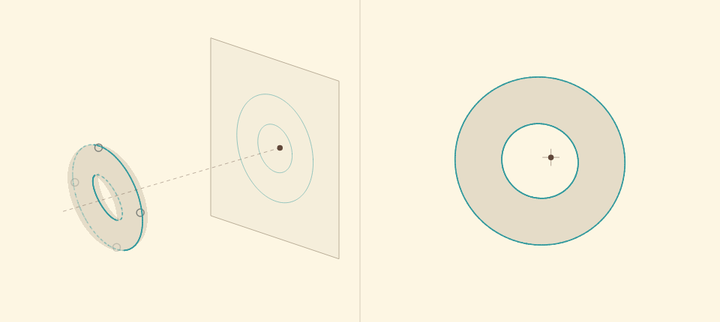
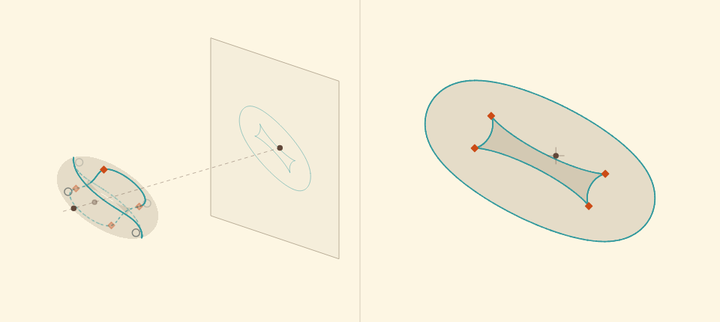
Load GIF previews directly and show oblique tori with verified contour cusps

diff --git a/math.html b/math.html
@@ -7,7 +7,6 @@
   <meta name="theme-color" content="#fdf6e3">
   <title>さわってあそべる数学ページ — 田邊真郷</title>
   <link rel="stylesheet" href="homepage.css?v=20261116-quiet-headings">
-  <script src="homepage-media.js?v=20261116-home-refine" defer></script>
 </head>
 <body class="site-page">
   <a class="skip-link" href="#main">本文へ</a>
@@ -28,14 +27,14 @@
       <section class="featured-content" id="morse" aria-labelledby="morse-heading">
         <h2 id="morse-heading"><a href="play-with-morse-singularities.html">モース特異点とあそぼう</a></h2>
         <figure>
-          <a href="play-with-morse-singularities.html" tabindex="-1" aria-hidden="true"><img class="gui-preview" id="morse-preview" src="assets/homepage/morse-gui.png?v=20261116-home-refine" data-animation-src="assets/homepage/morse-gui.gif?v=20261116-home-refine" width="720" height="322" alt="トーラスの上側を引っ張ったり押し込んだりすると、臨界点とその高さが変化する様子。" decoding="async"></a>
+          <a href="play-with-morse-singularities.html" tabindex="-1" aria-hidden="true"><img class="gui-preview" id="morse-preview" src="assets/homepage/morse-gui.gif?v=20261116-oblique-cusps" width="720" height="322" alt="斜めに見たトーラスの上側を引っ張ったり押し込んだりすると、臨界点とその高さが変化する様子。" decoding="async"></a>
         </figure>
         <p class="description">曲面を回転・変形して、山・谷・峠の個数とオイラー数の関係を調べます。</p>
       </section>
       <section class="featured-content" id="contours" aria-labelledby="contours-heading">
         <h2 id="contours-heading"><a href="play-with-apparent-contours.html">輪郭線とあそぼう</a></h2>
         <figure>
-          <a href="play-with-apparent-contours.html" tabindex="-1" aria-hidden="true"><img class="gui-preview" id="contours-preview" src="assets/homepage/contours-gui.png?v=20261116-home-refine" data-animation-src="assets/homepage/contours-gui.gif?v=20261116-home-refine" width="720" height="322" alt="トーラスの上側を引っ張ったり押し込んだりすると、スクリーン上の輪郭線が変化する様子。" decoding="async"></a>
+          <a href="play-with-apparent-contours.html" tabindex="-1" aria-hidden="true"><img class="gui-preview" id="contours-preview" src="assets/homepage/contours-gui.gif?v=20261116-oblique-cusps" width="720" height="322" alt="斜めに向けたトーラスの上側を変形させる様子。射影先のスクリーンにはカスプのある輪郭線が映ります。" decoding="async"></a>
         </figure>
         <p class="description">曲面を回転・変形して、スクリーンに映る輪郭線やカスプの変化を調べます。</p>
       </section>

diff --git a/index.html b/index.html
@@ -7,7 +7,6 @@
   <meta name="theme-color" content="#fdf6e3">
   <title>田邊真郷</title>
   <link rel="stylesheet" href="homepage.css?v=20261116-quiet-headings">
-  <script src="homepage-media.js?v=20261116-home-refine" defer></script>
 </head>
 <body class="site-page">
   <a class="skip-link" href="#main">本文へ</a>
@@ -39,13 +38,13 @@
       <div class="math-previews">
         <a href="math.html#morse">
           <figure>
-            <img class="gui-preview" id="morse-preview" src="assets/homepage/morse-gui.png?v=20261116-home-refine" data-animation-src="assets/homepage/morse-gui.gif?v=20261116-home-refine" width="720" height="322" alt="トーラスの上側を引っ張ったり押し込んだりすると、臨界点とその高さが変化する様子。" loading="lazy" decoding="async">
+            <img class="gui-preview" id="morse-preview" src="assets/homepage/morse-gui.gif?v=20261116-oblique-cusps" width="720" height="322" alt="斜めに見たトーラスの上側を引っ張ったり押し込んだりすると、臨界点とその高さが変化する様子。" loading="lazy" decoding="async">
             <figcaption>モース特異点とあそぼう</figcaption>
           </figure>
         </a>
         <a href="math.html#contours">
           <figure>
-            <img class="gui-preview" id="contours-preview" src="assets/homepage/contours-gui.png?v=20261116-home-refine" data-animation-src="assets/homepage/contours-gui.gif?v=20261116-home-refine" width="720" height="322" alt="トーラスの上側を引っ張ったり押し込んだりすると、スクリーン上の輪郭線が変化する様子。" loading="lazy" decoding="async">
+            <img class="gui-preview" id="contours-preview" src="assets/homepage/contours-gui.gif?v=20261116-oblique-cusps" width="720" height="322" alt="斜めに向けたトーラスの上側を変形させる様子。射影先のスクリーンにはカスプのある輪郭線が映ります。" loading="lazy" decoding="async">
             <figcaption>輪郭線とあそぼう</figcaption>
           </figure>
         </a>

diff --git a/homepage-media.js b/homepage-media.js
@@ -1,16 +1,8 @@
-(() => {
-  const previews = [...document.querySelectorAll('img[data-animation-src]')];
-  if (!previews.length) return;
-
-  const motionPreference = window.matchMedia('(prefers-reduced-motion: reduce)');
-  const stillSources = previews.map(image => image.getAttribute('src'));
-
-  function update() {
-    previews.forEach((image, index) => {
-      image.src = motionPreference.matches ? stillSources[index] : image.dataset.animationSrc;
-    });
+// Compatibility for older cached pages. New pages use GIFs directly.
+(function () {
+  var previews = document.querySelectorAll('img[data-animation-src]');
+  for (var i = 0; i < previews.length; i += 1) {
+    var source = previews[i].getAttribute('data-animation-src');
+    if (source) previews[i].src = source;
   }
-
-  motionPreference.addEventListener('change', update);
-  update();
 })();

diff --git a/HOMEPAGE.md b/HOMEPAGE.md
@@ -11,7 +11,7 @@
 - `cv.html`: 旧URLの互換ページ。旧履歴の各節から、研究または発信・イベントの該当箇所へ移動する。
 - `records.html`: 旧URLの互換ページ。ホーム内のお知らせ・予定へ移動し、既存の節へのリンクも引き継ぐ。
 - `homepage.css`: 共通の見た目とスマートフォンへの対応。
-- `homepage-media.js`: GIFの自動再生と、動きを減らす設定への対応。
+- `homepage-media.js`: 古いHTMLのキャッシュ向けの互換処理。GIFへ直接切り替えるだけとし、新しいページからは読み込まない。
 - `assets/homepage/`: 旧サイトから引き継いだグッズ画像など。
 
 ## 内容と見た目
@@ -22,7 +22,7 @@
 
 連絡先とSNS・共通プロフィールへのリンク欄はホームだけに置きます。数学ページ4作品の紹介は独立した数学ページに集約します。ホームのGIFと見出しからはこの一覧へ案内し、各作品のページへは一覧から進みます。発信・イベントのページ内には数学コンテンツの紹介欄を重ねません。同一イベント・講師歴は新しい行を重ねず、既存の記録に必要な情報を補います。同題でも日時や会場が違う講演、職歴と研究費など意味の異なる記録は保持します。
 
-数学ページの名称、ホームの案内見出しは「さわってあそべる数学ページ」とします。モース特異点と輪郭線が主なコンテンツで、各題名をリンクにします。「ページを開く」という重複するリンクは付けません。ホームの画像にはページ全体のスクリーンショットを使わず、各作品の描画領域を切り抜いたGIFを使います。停止ボタンは置かず、端末の「動きを減らす」設定では静止画にします。
+数学ページの名称、ホームの案内見出しは「さわってあそべる数学ページ」とします。モース特異点と輪郭線が主なコンテンツで、各題名をリンクにします。「ページを開く」という重複するリンクは付けません。ホームの画像にはページ全体のスクリーンショットを使わず、各作品の描画領域を切り抜いたGIFを使います。停止ボタンは置きません。GIFをHTMLの画像参照に直接指定し、JavaScriptや端末の動作設定を判定して静止画へ切り替える処理は入れません。
 
 氏名・所属と具体的な記録を中心にします。キャッチコピー、装飾的な英語の小見出し、丸角のカード型リンクは使いません。既存コンテンツの紙色・茶色・青緑を基調に、内容に関係する図や実画像を使います。氏名横のトーラスは外しています。ホーム上部には、添付画像をもとにした線画と、本人指定の「特異点はいつもあなたのそばに」を掲載します。この指定文のみ、一般的なキャッチコピーを加えない方針の例外です。
 
@@ -34,7 +34,7 @@
 
 ## GIFの更新
 
-`scripts/generate-gui-previews.cjs` は、既存のモース・輪郭線ページのCanvas描画コードを実行し、2つの描画領域だけを取り出します。数学ページ本体は変更しません。トーラスの上側を外へ引っ張り、内へ押し込み、元に戻す720×322・40フレーム・4秒のGIFと、動きを減らす設定用のPNGを `assets/homepage/` に保存します。
+`scripts/generate-gui-previews.cjs` は、既存のモース・輪郭線ページのCanvas描画コードを実行し、2つの描画領域だけを取り出します。数学ページ本体は変更しません。斜めに向けたトーラスの上側を外へ引っ張り、内へ押し込み、元に戻す720×322・40フレーム・4秒のGIFと、資料用のPNGを `assets/homepage/` に保存します。輪郭線のGIFは、射影先のスクリーンにカスプが見える角度を選びます。配信用の画像はGIFそのものを参照し、PNGからスクリプトで切り替える構造にはしません。
 
 再生成にはNode.js、`@napi-rs/canvas`、`ffmpeg` が必要です。HTML本体があるディレクトリを指定して `node scripts/generate-gui-previews.cjs --source-dir <ディレクトリ>` を実行します。省略時はこのリポジトリのルートを使います。これは画像生成用で、ホームページの公開時にビルドは不要です。
 
